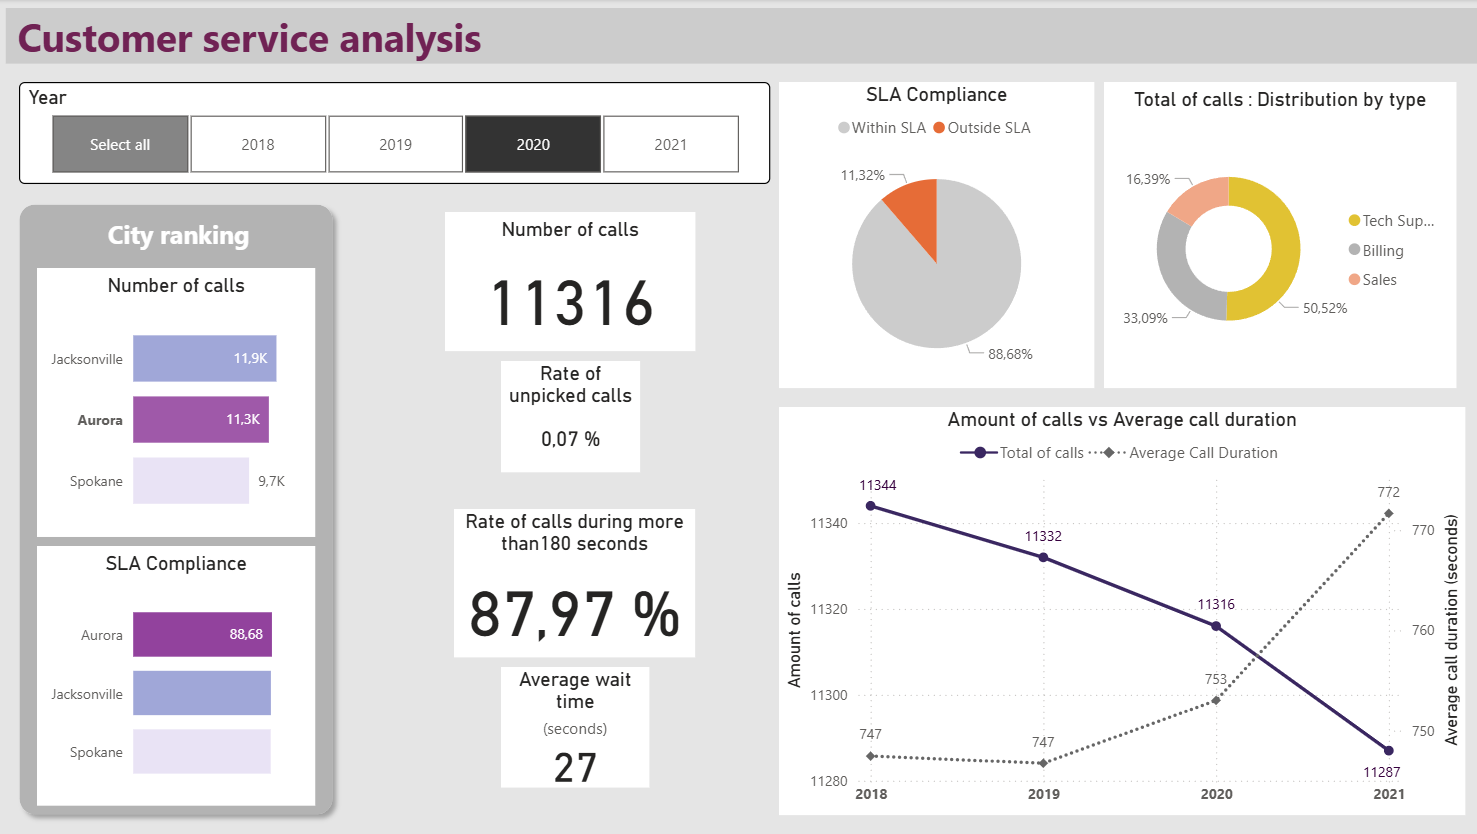
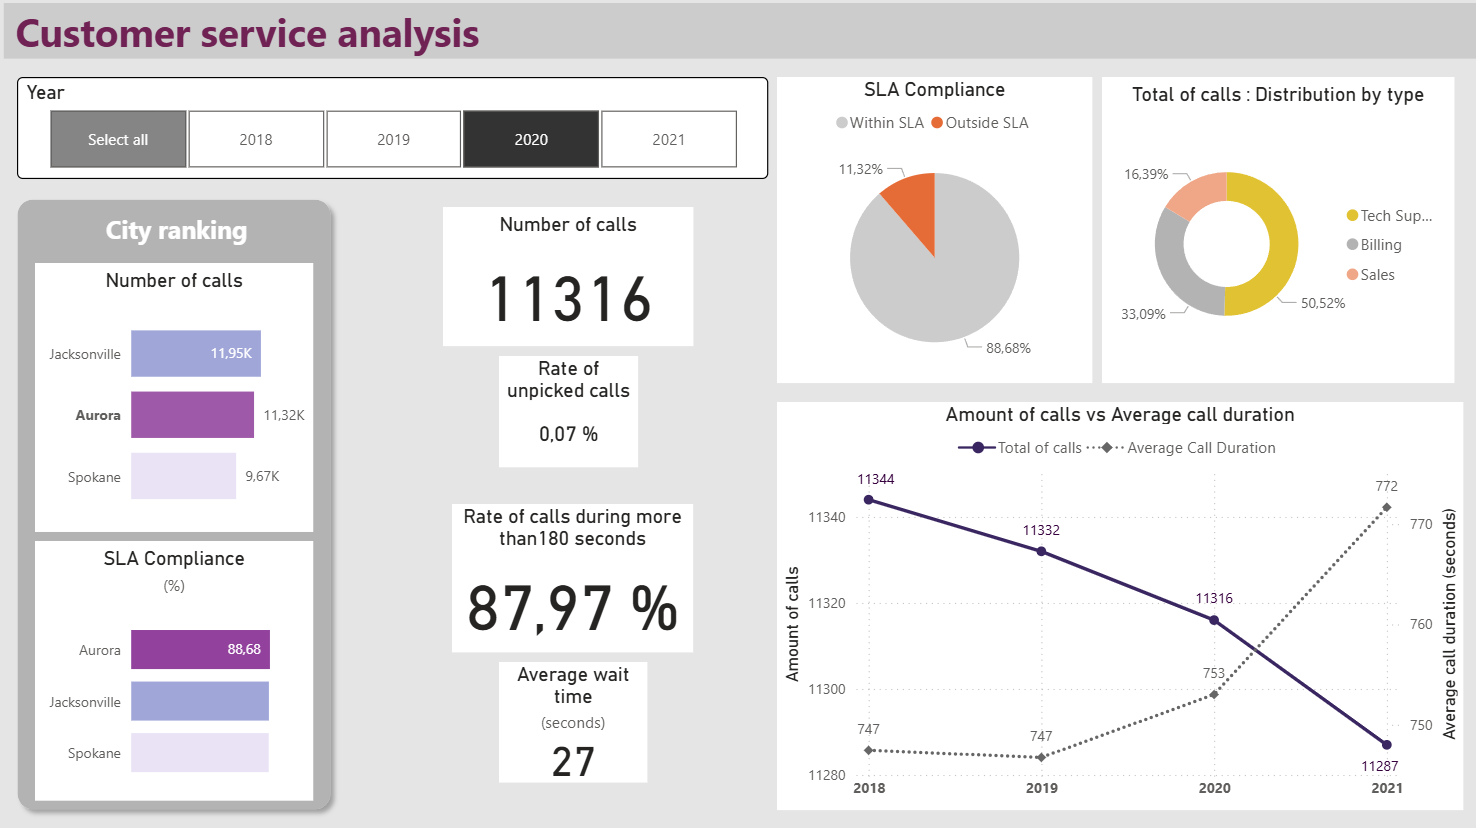
finalisation p3

diff --git a/project_fr_3.md b/project_fr_3.md
@@ -67,35 +67,6 @@ Power Query-Power BI <br>
 
 </ul>
 
-<!--
-<p>qu&#39;il faut :</p>
-<ul>
-<li>identifier</li>
-<li>formater</li>
-<li>contrôler</li>
-<li>organiser dans un modèle de données </li>
-<li>faire fonctionner</li>
-<li>documenter</li>
-<li>maintenir</li>
-</ul>
-
-
-
-Source - https://stackoverflow.com/a
-Posted by bim, modified by community. See post 'Timeline' for change history
-Retrieved 2025-12-19, License - CC BY-SA 4.0
-
-
-<figure>
-<p align="center" width="100%">
-  <img src="assets/P1_data_model.png" alt="Version de travail Modèle de données P1" style="width:80%">
-  <figcaption><h6 align="center">Version de travail du modèle de données</h6></figcaption>
-  </p>
-</figure>
-</div>
-</div>
--->
-
 <div class="toggle-block">
 <button class="accordion">📊Axes d'analyse et principaux KPI mis en place</button>
 <div class="panel">
@@ -120,9 +91,10 @@ Retrieved 2025-12-19, License - CC BY-SA 4.0
 <h4 id="liste-traitements-init">Traitements et ajouts initiaux</h4>
 <ul>
 <li>Import dans Power Query</li>
+<li>Vérification de la complétude des données</li>
 <li>Gestion des formats (Dates, Décimaux)</li>
 <li>Merge des fichiers de données Appels des 4 années</li>
-<li>Création colonnes State et City (séparation depuis la colonne Site qui est ensuite supprimée</li>
+<li>Création colonnes State et City (séparation depuis la colonne Site qui est ensuite supprimée)</li>
 <li>Création colonne SLA Compliance (booléen, conditionnel)</li>
 <li>Création colonne Call Revenue (selon type d'appel et année)</li>
 <figure>
@@ -164,7 +136,7 @@ Retrieved 2025-12-19, License - CC BY-SA 4.0
 
 
 <ul>
-<li>Période globale
+<li>Vue globale
 <figure>
 <p align="center" width="100%">
 <img src="assets/P3_RPT_customer_service_all.png" alt="Vision globale du service" style="width:80%">
@@ -172,7 +144,7 @@ Retrieved 2025-12-19, License - CC BY-SA 4.0
 </p>
 </figure>
   <ul>
-  <li>Jacksonville est en tête du classement en nombre d'appels (47k) mais le taux de qualité est légèrement meilleur à Aurora sur l'ensemble de la période (88,38% dans le SLA, légèment supérieur à la moyenne globale de 88,17%)</li>
+  <li>Jacksonville est en tête du classement en nombre d'appels (47,48k) mais le taux de qualité est légèrement meilleur à Aurora sur l'ensemble de la période (88,38% dans le SLA, légèment supérieur à la moyenne globale de 88,17%)</li>
   <li>Les appels au support technique représentent au global environ la moitié du volume d'appels</li>
   <li>Entre 2020 et 2021, la durée moyenne des appels a augmenté (de 746s en 2018 à 767s en 2021) mais leur nombre a diminué (de 33 057 à 32 846).</li>
   <li>Le taux d'appels non décrochés est très faible (0,07%) pour un temps d'attente moyen de 27s.</li>
@@ -201,11 +173,24 @@ Retrieved 2025-12-19, License - CC BY-SA 4.0
 </p>
 </figure>
   <ul>
-  <li>xxx</li>
-  <li>xxx</li>
-  <li>xxx</li>
-  <li>xxx</li>
-  <li>xxx</li>
+  <li>Le bureau de Jacksonville présente la plus grande croissance de chiffre d'affaire avec une augmentation de 68,78% sur la période étudiée.</li>
+  <li>Les appels au support technique génèrent au global un peu moins de la moitié du chiffre d'affaire total (47,57%)- les indicateurs et graphiques pour un type d'appel sont visibles en sélectionnant la part de camembert.
+  <figure>
+  <p align="center" width="100%">
+  <img src="assets/P3_RPT_revenue_analysis_all_type_support.png" alt="Aperçu du rapport filtré type support" style="width:80%">
+  <figcaption><h6 align="center">Aperçu - détail appels de type support</h6></figcaption>
+  </p>
+  </figure>
+  </li>
+  <li>Le chiffre d'affaire est en augmentation constante de 2018 à 2021 ($3,4M en 2021) - les indicateurs et graphiques pour une année sont visibles en sélectionnant la barre de l'année.
+    <figure>
+  <p align="center" width="100%">
+  <img src="assets/P3_RPT_revenue_analysis_all_2021.png" alt="Aperçu du rapport filtré année 2021" style="width:80%">
+  <figcaption><h6 align="center">Aperçu - détail appels année 2021</h6></figcaption>
+  </p>
+  </figure></li>
+  <li>Le CA moyen par appel est passé de $62,71 en 2018 à 104,61$ en 2021.</li>
+  <li>L'évolution du CA au fil des années est plus forte pour les appels de type support que pour les appels commerce et facturation.</li>
   </ul>
 </li>
 <li>Exemple de filtre : En 2020 pour Jacksonville et le manager Ducharme
@@ -230,18 +215,21 @@ Retrieved 2025-12-19, License - CC BY-SA 4.0
 </p>
 </figure>
   <ul>
-  <li>xxx</li>
-  <li>xxx</li>
-  <li>xxx</li>
-  <li>xxx</li>
-  <li>xxx</li>
+  <li>L'utilisateur peut sélectionner le bureau et le manager, ainsi qu'une année, pour visualiser les performances par employé, le nombre d'employés dans l'équipe et le score de SLA.</li>
+  <li>Le détail d'un employé est visible en sélectionnant sa barre.</li>
   </ul>
 </li>
-<li>Exemple de filtre : En 2021 pour Jacksonville et le manager Ducharme
+<li>Exemple de filtres : En 2021 pour Jacksonville et le manager Ducharme
 <figure>
 <p align="center" width="100%">
 <img src="assets/P3_RPT_staff-perf_analysis_jacksonville_ducharme_2021.png" alt="Aperçu du rapport filtré" style="width:80%">
 <figcaption><h6 align="center">Aperçu du rapport filtré</h6></figcaption>
+</p>
+</figure>
+<figure>
+<p align="center" width="100%">
+<img src="assets/P3_RPT_staff-perf_analysis_jacksonville_ducharme_2021_brittany.png" alt="Aperçu du rapport filtré employé" style="width:80%">
+<figcaption><h6 align="center">Détail employé</h6></figcaption>
 </p>
 </figure>
 </li>
